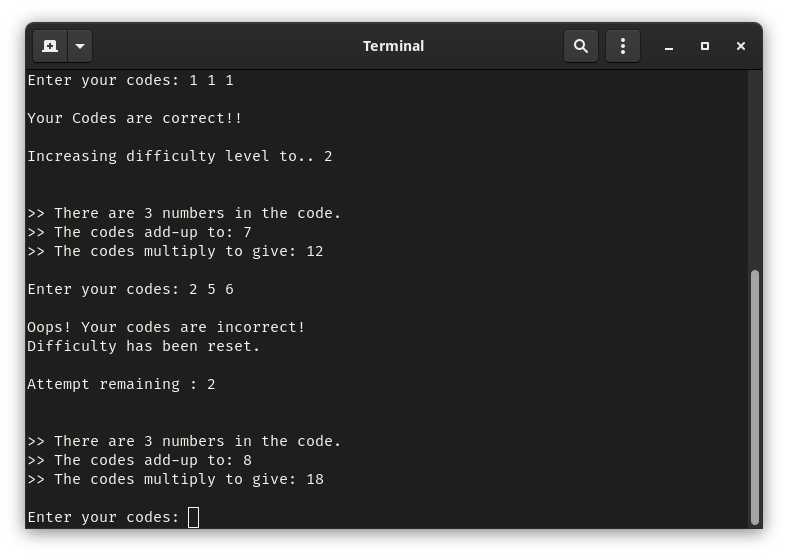
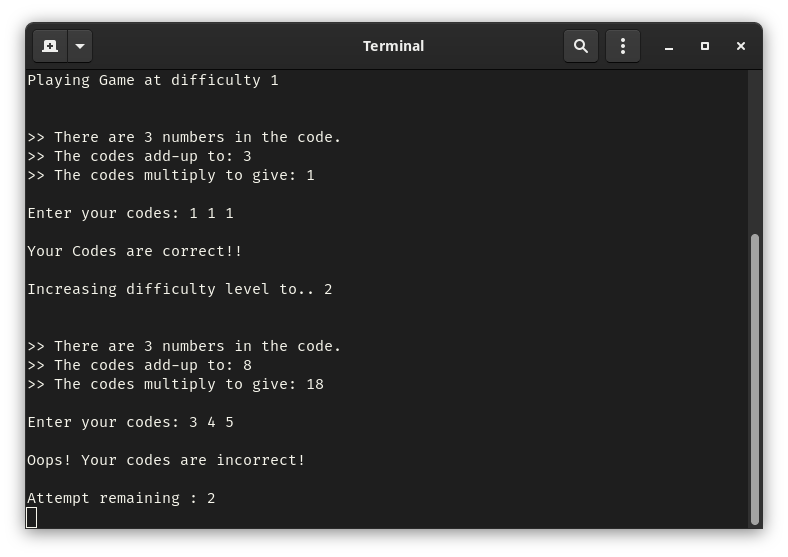
Updated Level Failed image

diff --git a/src/main.cpp b/src/main.cpp
@@ -71,7 +71,7 @@ void LoopGameAtDifficulty(int *DifficultyPointer, int *AttemptPointer) {
     else if ((*AttemptPointer) > 1) {
         (*AttemptPointer)--;
         std::cout <<"\nOops! Your codes are incorrect!\n";
-        std::cout <<"Difficulty has been reset.\n\nAttempt remaining : " << (*AttemptPointer) << std::endl;
+        std::cout <<"\nAttempt remaining : " << (*AttemptPointer) << std::endl;
         PressAnyKeyToContinue();
     }
     else {
